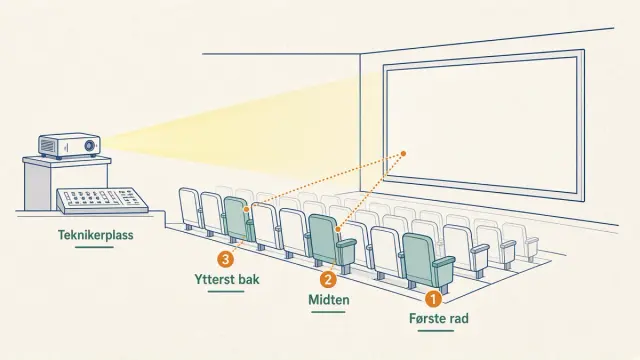
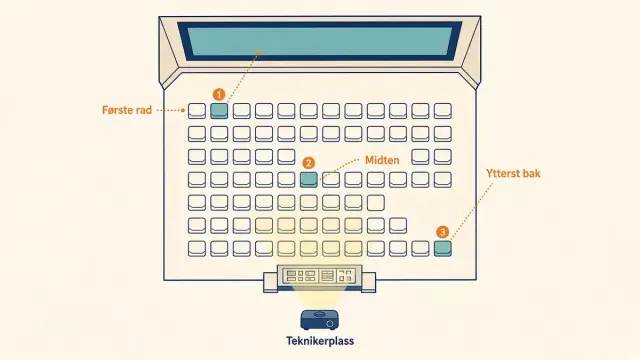
Update kinostoler cover to top-down Gemini plan and coverAlt

Changed region(s): [[0.0312, 0.0306, 0.9688, 0.9778], [0.0938, 0.6417, 0.2188, 0.7028], [0.875, 0.0611, 0.9688, 0.0917]]

diff --git a/src/content/blog/lokale-med-kinostoler-test-tre-seter.md b/src/content/blog/lokale-med-kinostoler-test-tre-seter.md
@@ -8,7 +8,7 @@ author: "Ibrahim Rahmani"
 role: "Grunnlegger, Digilist"
 tag: "Arrangement"
 cover: "/images/blog/lokale-med-kinostoler-test-tre-seter.webp"
-coverAlt: "Infografikk på kremfarget bakgrunn i perspektiv: projektor på sokkel til venstre med gul stråle mot lerretet, teknikerbord under merket «Teknikerplass», tre kinorader med seter 1, 2 og 3 markert i turkis med oransje tall, og tekstene «Første rad», «Midten» og «Ytterst bak»; oransje stiplet siktlinje fra setene 2 og 3 mot lerretet."
+coverAlt: "Infografikk på kremfarget bakgrunn: plantegning ovenfra av kinosal med turkis lerret øverst i beige ramme og hvite seter i rutenett. Sete 1 i turkis med oransje «1» og stiplet linje til «Første rad» til venstre sitter i første rad; sete 2 med «Midten» til høyre i midtre rad nær sentrum; sete 3 med «Ytterst bak» over bakerste rad helt til høyre. Bak salen teknikerkonsoll, mørkeblå projektor og «Teknikerplass», med svak gul stråle mot konsollen."
 priceBlock: shared
 keywords:
   - leie lokale med kinostoler
